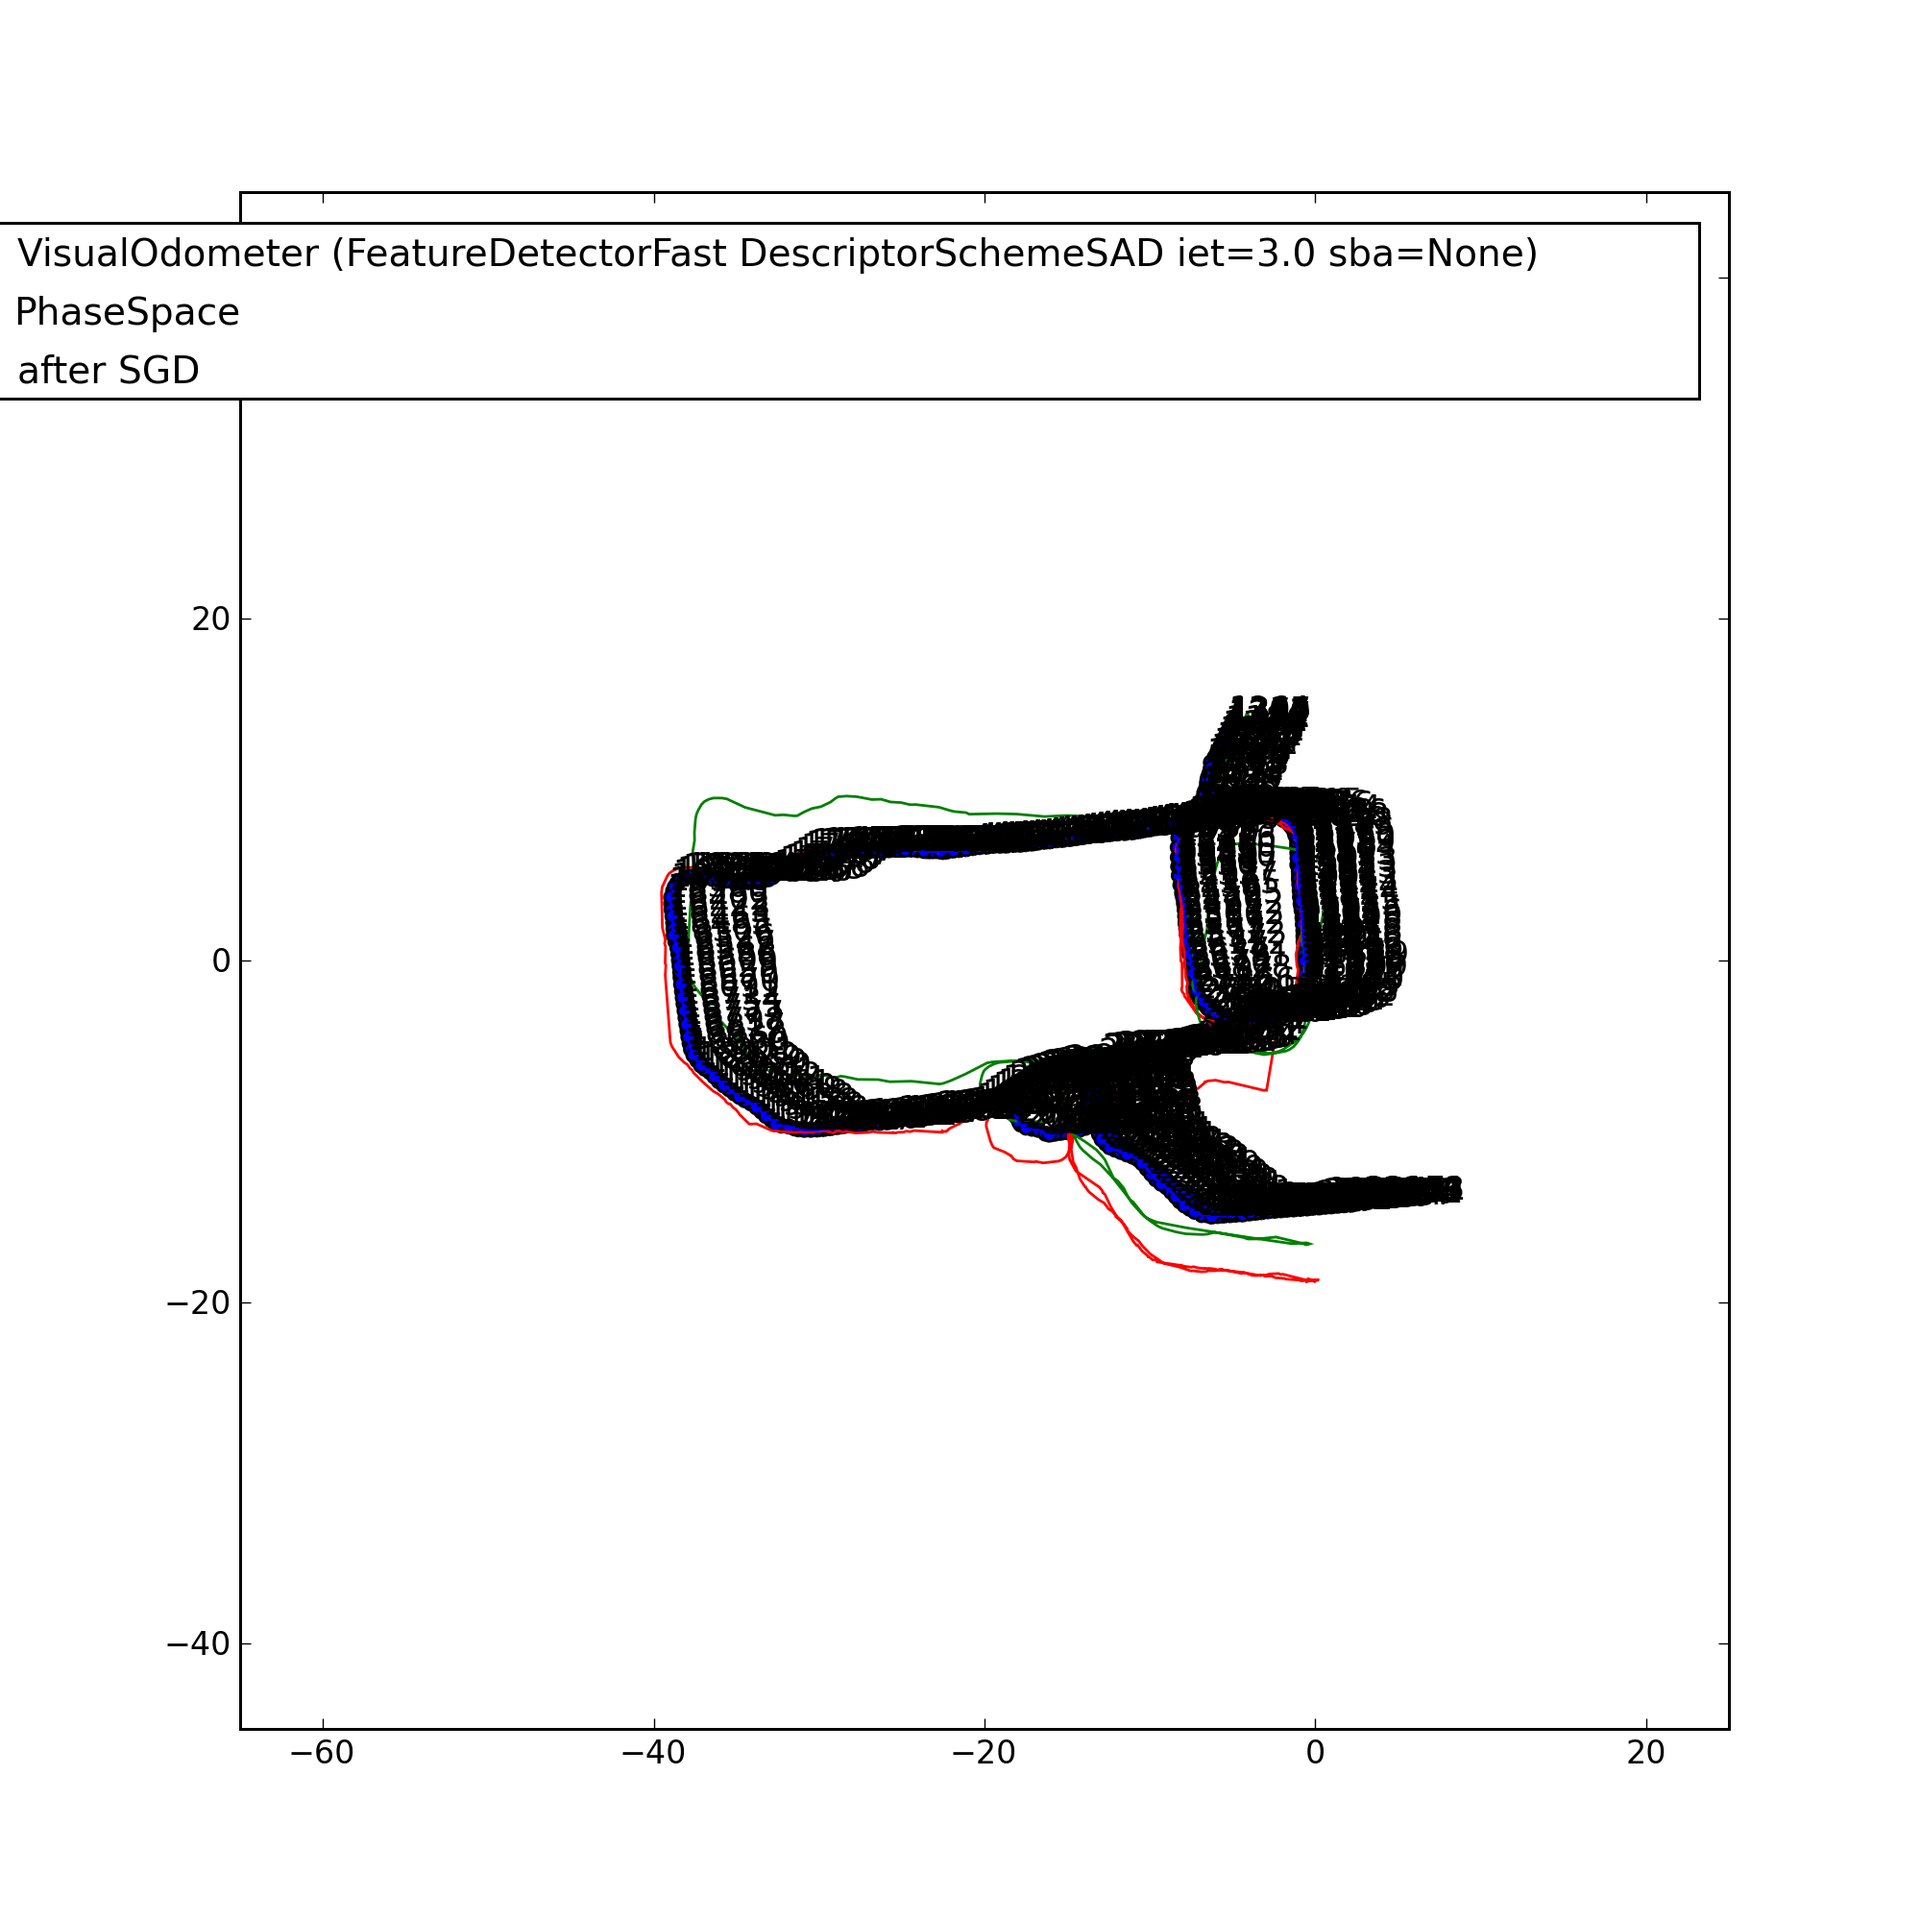
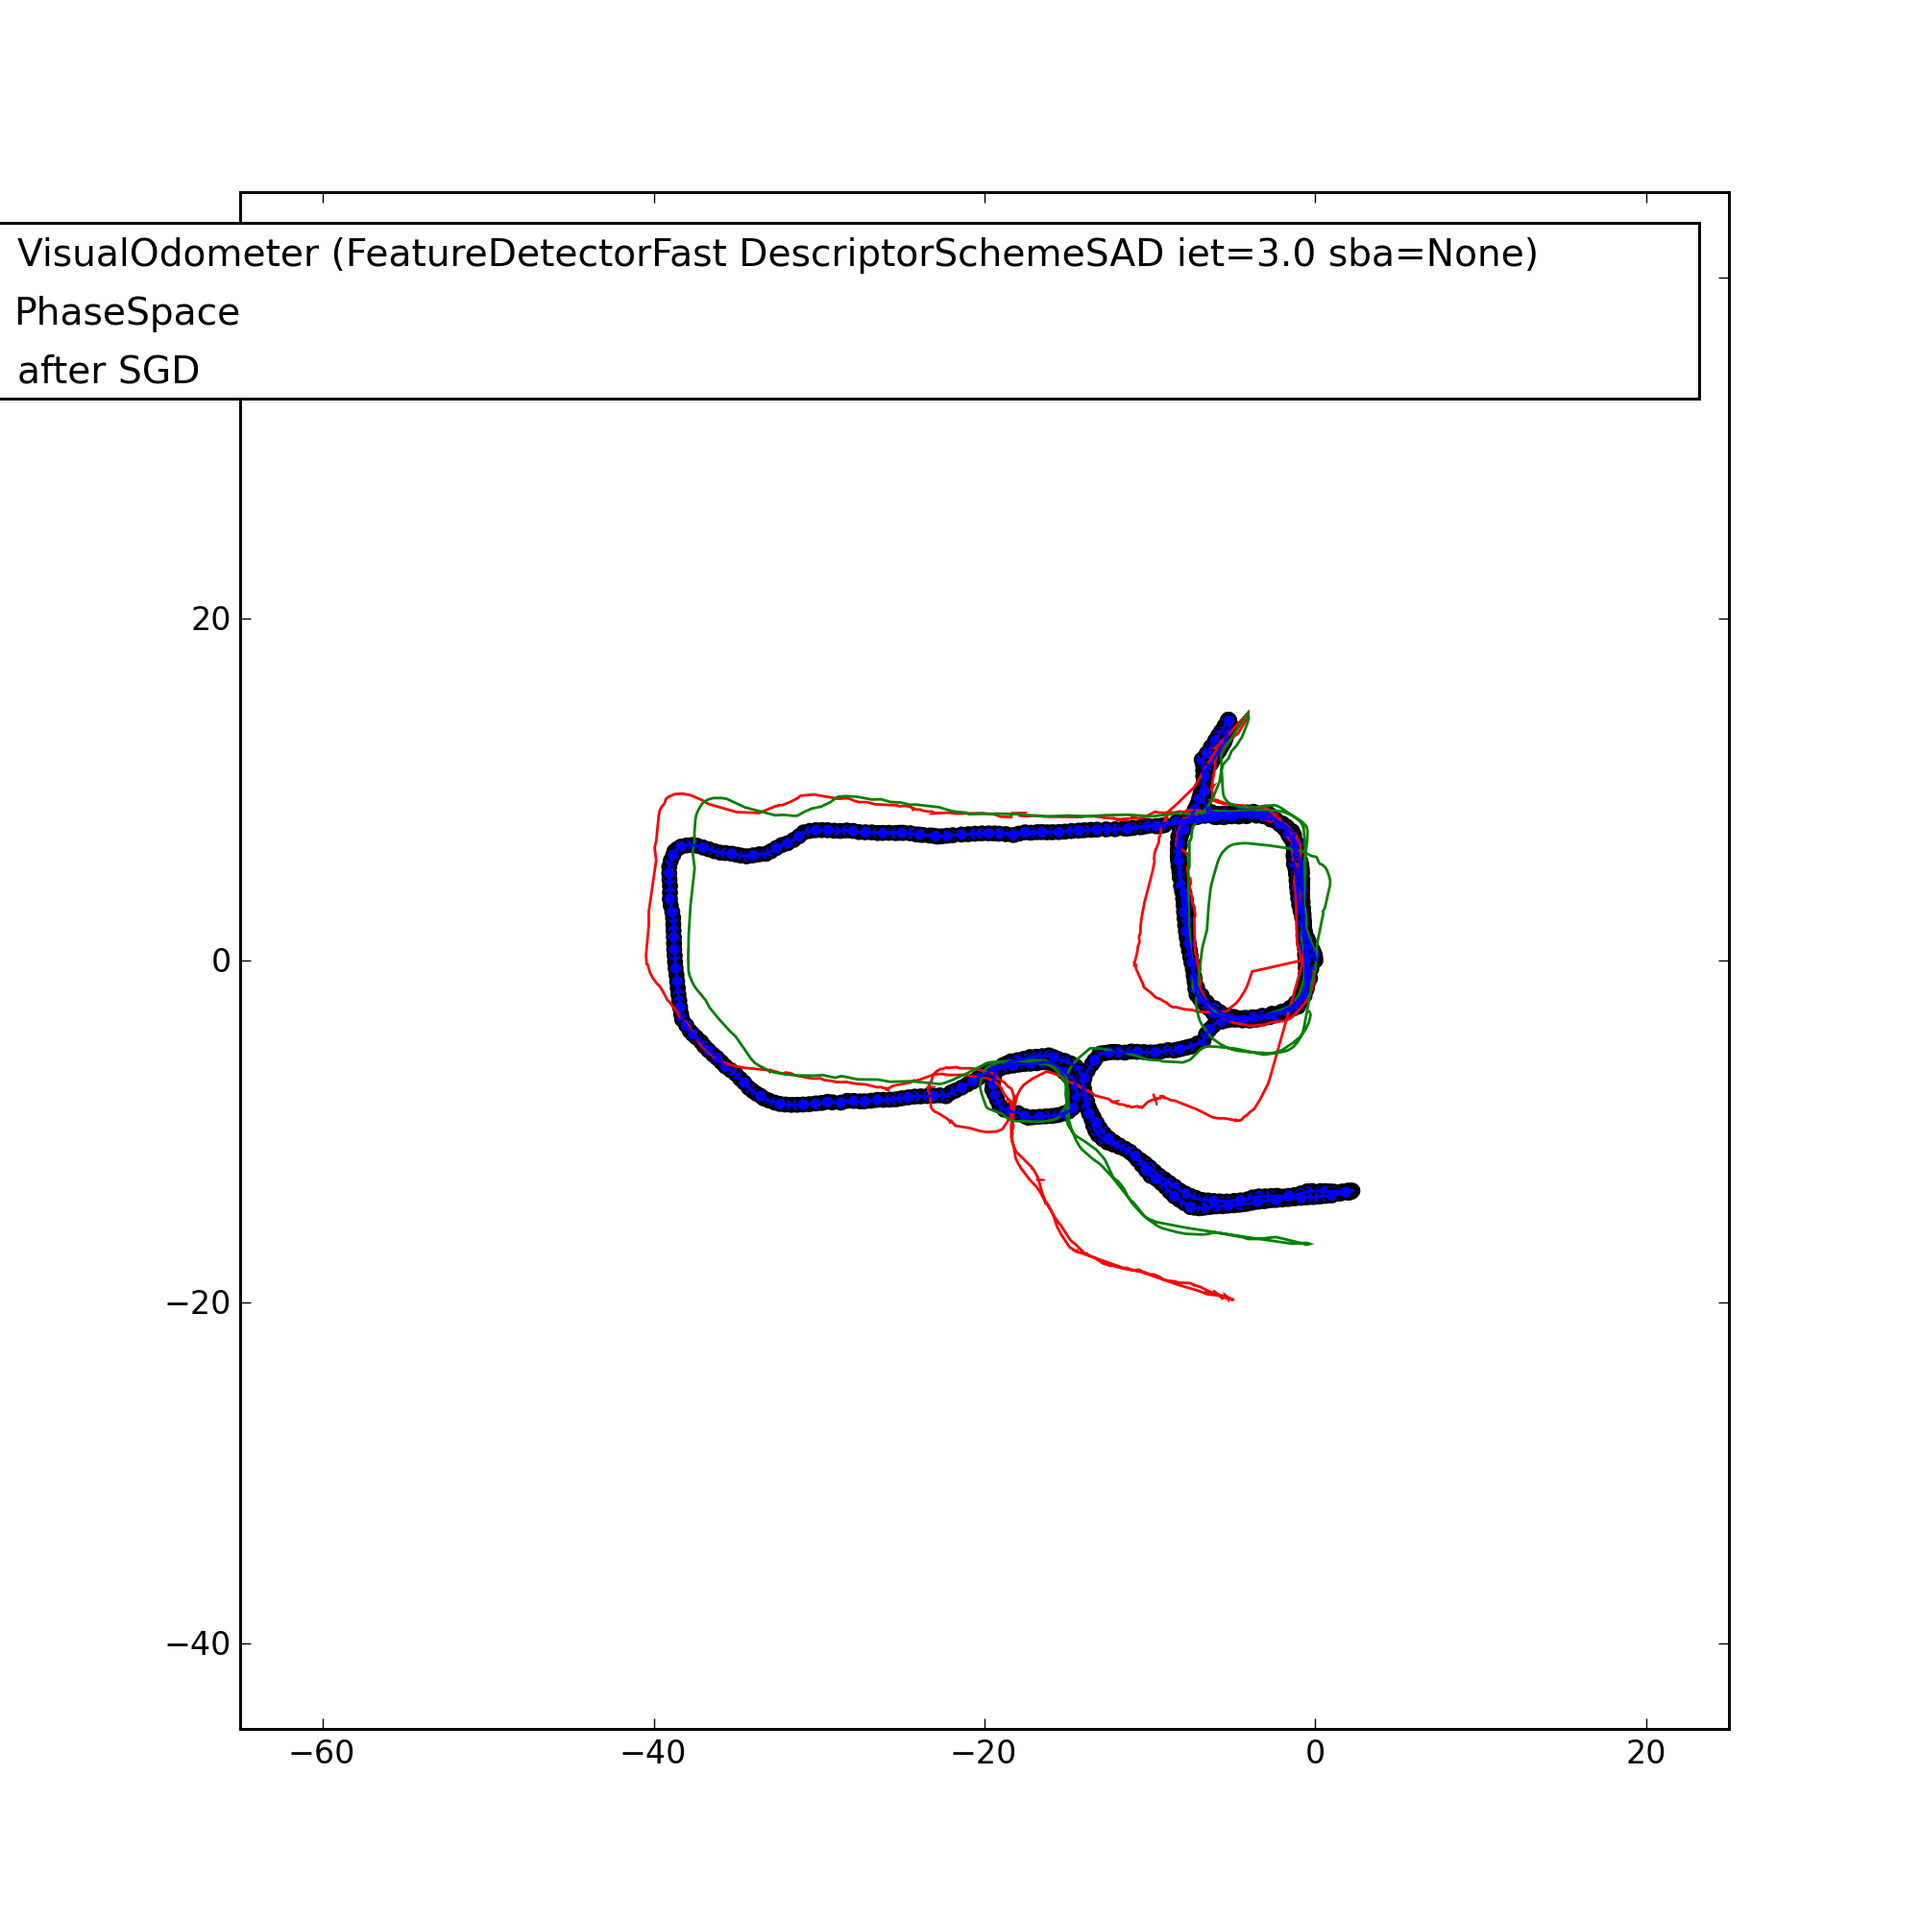
added conversion script for crusher datasets
git-svn-id: https://svn.code.sf.net/p/personalrobots/code/pkg/trunk@16875 f5854215-dd47-0410-b2c4-cdd35faa7885

Former-commit-id: 03b34a995041679edab7f82c7578865310f800a5

Changed region(s): [[0.341, 0.341, 0.775, 0.682]]

diff --git a/vision/vslam/scripts/conv-crusher.py b/vision/vslam/scripts/conv-crusher.py
@@ -1,0 +1,65 @@
+#
+# converts crusher IMU/SPAN pose files into indexed poes file based on just some views
+# first arg is crusher pose file
+# second arg is VO pose file
+#
+
+# file lines have this form for Crusher data:
+# frame: 118016 time: 1188408997.291066 pose: -5831.709908 -344.038363 -9.596183 6.622948 -1.230735 42.080087
+
+# file lines have this form for VO data:
+# VERTEX3 66 0.0301717 -0.0222078 0.0402928 0.00618862 0.00948001 0.0132785
+# note that these start at 0, we get the offset from the first line of the Crusher data
+#
+
+import numpy
+import math
+import random
+import time
+import sys
+
+
+print sys.argv[1]
+print sys.argv[2]
+
+fstart = -1
+
+# open crusher pose file
+cfile = open(sys.argv[1],'r');
+
+# make dictionary of poses
+dcs = {}  # dictionary for IMU poses
+for line in cfile:
+    a = line.split();
+    pose = [float(a[5]), float(a[6]), float(a[7]), float(a[8]), float(a[9]), float(a[10])]
+    dcs[int(a[1])] = pose
+    if (fstart < 0):
+        fstart = int(a[1])
+        print "Starting frame is "+str(fstart)
+
+
+# get just the poses used by VO
+cposes = []
+vposes = []
+vfile = open(sys.argv[2],'r');
+for line in vfile:
+    a = line.split()
+    if (a[0] == "VERTEX3"):
+        ind = int(a[1])+fstart          # frame number in crusher data
+        if (ind in dcs):
+            cposes.append(dcs[ind])
+            vposes.append([float(a[2]), float(a[3]), float(a[4]), float(a[5]), float(a[6]), float(a[7])])
+            
+
+print "Number of poses: "+str(len(cposes))
+
+ofc = open("ctraj.dat",'w')
+ofv = open("vtraj.dat",'w')
+
+for p in cposes:
+    ofc.write(str(p[0])+" "+str(p[1])+" "+str(p[2])+" "+str(p[3])+" "+str(p[4])+" "+str(p[5])+"\n")
+
+for p in vposes:
+    ofv.write(str(p[0])+" "+str(p[1])+" "+str(p[2])+" "+str(p[3])+" "+str(p[4])+" "+str(p[5])+"\n")
+
+

diff --git a/vision/vslam/scripts/mkplot.py b/vision/vslam/scripts/mkplot.py
@@ -218,12 +218,18 @@ for vo in vos:
 skel.summarize_timers()
 skel.dump_timers('skel_timers.pickle')
 
+
 skel.trim()
 print "Saving as mkplot_snap"
 skel.save("mkplot_snap")
+
+skel.optimize()
+skel.optimize()
+
 skel.plot('blue', True)
 pylab.savefig("mkplot.eps")
 pylab.show()
+
 sys.exit(0)
 
 colors = [ 'red', 'black', 'magenta', 'cyan', 'orange', 'brown', 'purple', 'olive', 'gray' ]

diff --git a/vision/vslam/scripts/deletion2.py b/vision/vslam/scripts/deletion2.py
@@ -80,7 +80,7 @@ if 1:
   print set(skel.labelization())
   skel.optimize()
   skel.optimize()
-  skel.save("/home/jamesb/ABCDEF2")
+  skel.save("iros2009/ABCDEF2")
   pos,edges,_ = skel.localization()
   f = open("deletion2.pickle", "w")
   pickle.dump(pos, f)

diff --git a/vision/vslam/scripts/seemap.py b/vision/vslam/scripts/seemap.py
@@ -83,6 +83,10 @@ if len(sys.argv) > 1:
   pylab.show()
   sys.exit(0)
 
+render(sys.argv[1], 'blue', 0.0, "foo.eps")
+pylab.savefig("foo.eps")
+pylab.show()
+
 if False:
   fig = pylab.figure(figsize=(10,10), linewidth = 0.0)
 
